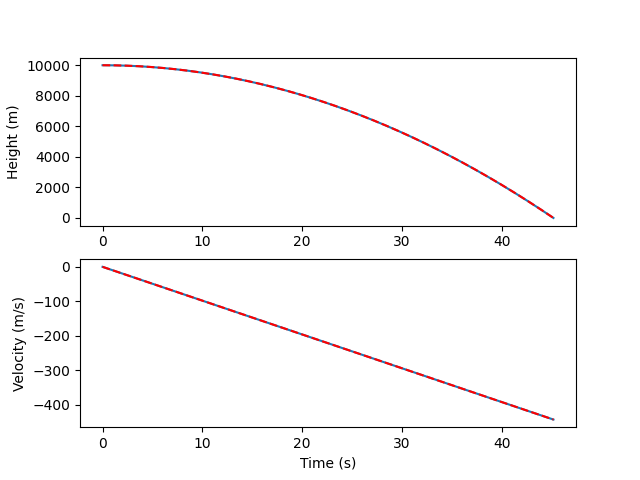
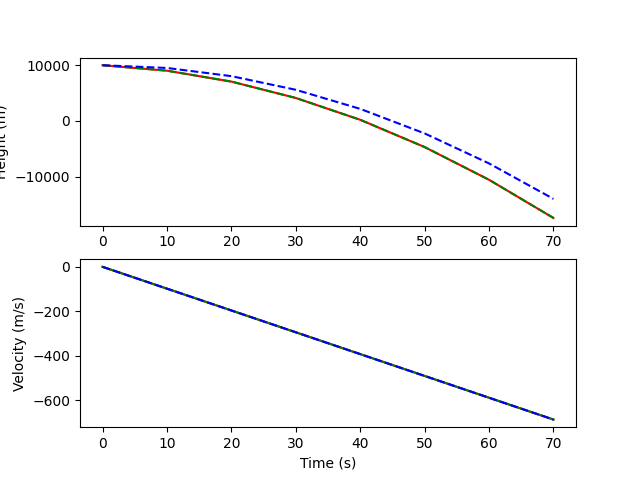
feat: add Verlet method

diff --git a/src/main.py b/src/main.py
@@ -1,6 +1,7 @@
 from simulations.free_fall import FreeFall
 import matplotlib.pyplot as plt
-from methods.initial import Initial
+from methods.simple import Simple
+from methods.verlet import Verlet
 from methods.theory import Theory
 from definitions import Object, Conditions
 import numpy
@@ -14,37 +15,53 @@ graph = True
 
 def main():
     time = 0
-    simulationMethod = FreeFall()
+    simulationSimple = FreeFall()
+    simuationVerlet = FreeFall()
     simulationTheory = FreeFall()
-    objectsMethod = [Object(10.0, numpy.array([0, 10000]), numpy.array([0, 0]))]
+    objectsSimple = [Object(10.0, numpy.array([0, 10000]), numpy.array([0, 0]))]
+    objectsVerlet = [Object(10.0, numpy.array([0, 10000]), numpy.array([0, 0]))]
     objectsTheory = [Object(10.0, numpy.array([0, 10000]), numpy.array([0, 0]))]
-    method = Initial()
+    simple = Simple()
+    verlet = Verlet()
     theory = Theory()
 
-    conditions = Conditions(differenceTime=0.01, acceleration=numpy.array([0, -9.8]))
+    conditions = Conditions(differenceTime=10, acceleration=numpy.array([0, -9.8]))
 
     timeData = [0]
     positionData = {
-        "method": [objectsMethod[0].position[1]],
+        "simple": [objectsSimple[0].position[1]],
+        "verlet": [objectsVerlet[0].position[1]],
         "theory": [objectsTheory[0].position[1]]
     }
     velocityData = {
-        "method": [objectsMethod[0].velocity[1]],
+        "simple": [objectsSimple[0].velocity[1]],
+        "verlet": [objectsVerlet[0].velocity[1]],
         "theory": [objectsTheory[0].velocity[1]]
     }
 
     while running:
-        # Method simulation
-        simulationMethod.update(method, objectsMethod, conditions)
+        if time > 60: 
+            break
 
-        if simulationMethod.end:
+        # Simple simulation
+        simulationSimple.update(simple, objectsSimple, conditions)
+
+        if simulationSimple.end:
             break
         
-        positionData["method"].append(objectsMethod[0].position[1])
-        velocityData["method"].append(objectsMethod[0].velocity[1])
+        positionData["simple"].append(objectsSimple[0].position[1])
+        velocityData["simple"].append(objectsSimple[0].velocity[1])
+
+        # Verlet simulation
+        simuationVerlet.update(verlet, objectsVerlet, conditions)
+
+        if simuationVerlet.end:
+            break
+
+        positionData["verlet"].append(objectsVerlet[0].position[1])
+        velocityData["verlet"].append(objectsVerlet[0].velocity[1])
 
         # Theoretical simulation
-
         simulationTheory.update(theory, objectsTheory, conditions)
 
         if simulationTheory.end:
@@ -56,22 +73,32 @@ def main():
         time += conditions.differenceTime
         timeData.append(time)
 
-        print("PositionMethod: ", objectsMethod[0].position, "VelocityMethod: ", objectsMethod[0].velocity, "Time: ", time)
-        print("PositionTheory: ", objectsTheory[0].position, "VelocityTheory: ", objectsTheory[0].velocity, "Time: ", time)
     
+
+    print("PositionSimple: ", positionData["simple"][-1], "VelocitySimple: ", velocityData["simple"][-1], "Time: ", time)
+    print("PositionVerlet: ", positionData["verlet"][-1], "VelocityVerlet: ", velocityData["verlet"][-1], "Time: ", time)
+    print("PositionTheory: ", positionData["theory"][-1], "VelocityTheory: ", velocityData["theory"][-1], "Time: ", time)
+    
+    print("Simple length: ", len(positionData["simple"]))
+    print("Verlet length: ", len(positionData["verlet"]))
+    print("Theory length: ", len(positionData["theory"]))
+    
+
 
     plt.figure()
     plt.subplot(211)
     plt.ylabel('Height (m)')
-    plt.plot(timeData, positionData["method"])  
-    plt.plot(timeData, positionData["theory"], linestyle='--', color='red')
+    plt.plot(timeData, positionData["simple"], color='red')  
+    plt.plot(timeData, positionData["verlet"], linestyle='--', color='green')
+    plt.plot(timeData, positionData["theory"], linestyle='--', color='blue')
 
 
     plt.subplot(212)
     plt.ylabel('Velocity (m/s)')
     plt.xlabel('Time (s)')
-    plt.plot(timeData, velocityData["method"])
-    plt.plot(timeData, velocityData["theory"], linestyle='--', color='red')
+    plt.plot(timeData, velocityData["simple"], color='red')
+    plt.plot(timeData, velocityData["verlet"], color='green')
+    plt.plot(timeData, velocityData["theory"], linestyle='--', color='blue')
 
     plt.savefig("free_fall.png")
 

diff --git a/src/simulations/free_fall.py b/src/simulations/free_fall.py
@@ -5,12 +5,14 @@ class FreeFall(Simulation):
     end: bool = False
 
     def update(self, method: Method, objects: list[Object], conditions: Conditions):
-        for object in objects:                
+        for object in objects:
+            # if object.position[1] <= 0:
+            #     object.velocity[1] = 0
+            #     object.position[1] = 0
+            #     self.end = True  
+            
             method.update_velocity(object, conditions)
             method.update_position(object, conditions)
 
-            if object.position[1] <= 0:
-                object.velocity[1] = 0
-                object.position[1] = 0
-                self.end = True
+
                     

diff --git a/src/methods/verlet.py b/src/methods/verlet.py
@@ -1,0 +1,10 @@
+from definitions import Method, Object, Conditions
+
+class Verlet(Method):
+    def update_position(self, object: Object, conditions: Conditions):
+        displacement = object.position - object.last_position
+        object.last_position = object.position
+        object.position = object.position + displacement  + conditions.acceleration * (conditions.differenceTime ** 2)
+
+    def update_velocity(self, object: Object, conditions: Conditions):
+        object.velocity = object.velocity + (2*conditions.acceleration * conditions.differenceTime) / 2

diff --git a/src/methods/simple.py b/src/methods/simple.py
@@ -1,7 +1,6 @@
 from definitions import Method, Object, Conditions
-import numpy
 
-class Initial(Method):
+class Simple(Method):
     def update_position(self, object: Object, conditions: Conditions):
         object.position = object.position + object.velocity * conditions.differenceTime
 
